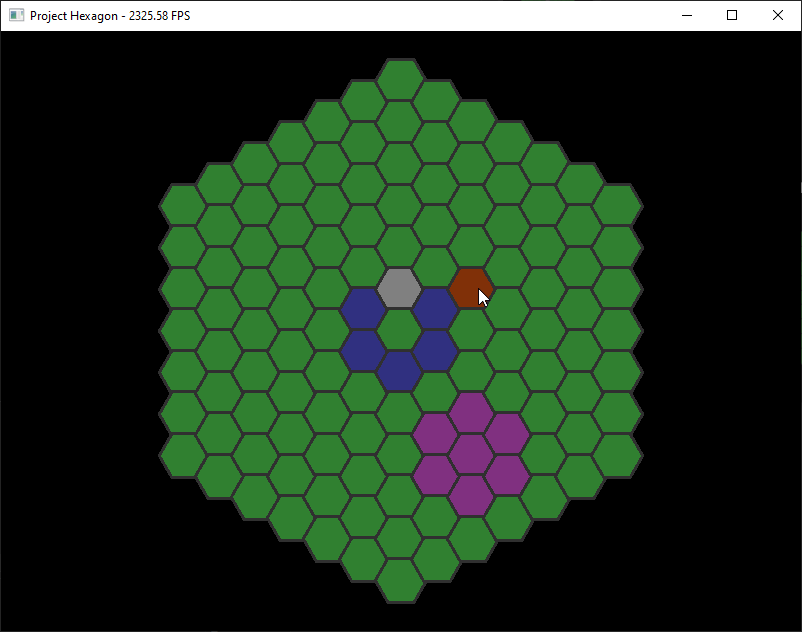
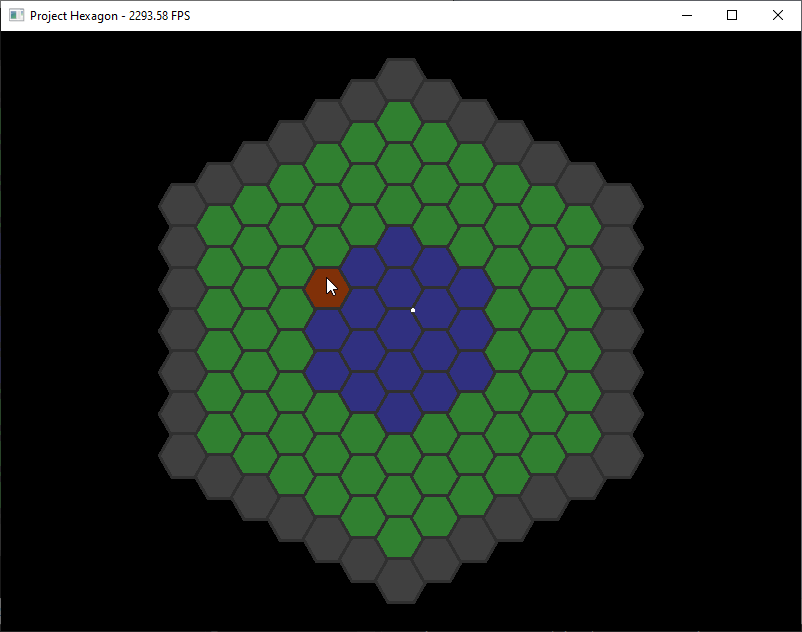
added function to generate ring of tiles

Changed region(s): [[0.187, 0.0902, 0.8105, 0.962], [0.9975, 0.0, 1.0, 0.9921], [0.1559, 0.0, 0.187, 0.0301]]

diff --git a/Project-Hexagon/main.cpp b/Project-Hexagon/main.cpp
@@ -63,8 +63,8 @@ class Tile {
 		
 		for (int i = 0; i < 6; i++) {
 			float deg = i * 60 + 30;
-			float rad = -deg * M_PI / 180.0f;
-			float xx = position.x - tile_radius * std::sin(rad);
+			float rad = deg * M_PI / 180.0f;
+			float xx = position.x + tile_radius * std::sin(rad);
 			float yy = position.y - tile_radius * std::cos(rad);
 
 			hexagon.setPoint(i, sf::Vector2f(xx, yy));
@@ -142,6 +142,37 @@ class Map {
 		return set;
 	}
 
+	std::unordered_set<Tile*> getTilesRing(int q, int r, int s, int ring_size) {
+		std::unordered_set<Tile*> set;
+
+		if (ring_size == 0) {
+			Tile* center = getTile(q, r, s);
+			if (center != nullptr)
+				set.insert(center);
+			return set;
+		}
+
+		int qq = q + hex_neighbours[4].x * ring_size;
+		int rr = r + hex_neighbours[4].y * ring_size;
+		int ss = s + hex_neighbours[4].z * ring_size;
+
+		Tile* tt = getTile(qq, rr, ss);
+
+		for (int i = 0; i < 6; i++) {
+			for (int j = 0; j < ring_size; j++) {
+				if (tt != nullptr)
+					set.insert(tt);
+
+				if (tt != nullptr)
+					tt = tt->neighbours[i];
+				else
+					break; // przerwij jeśli nie ma sąsiada
+			}
+		}
+
+		return set;
+	}
+
 	sf::Vector2f getSize() {
 		if (tiles.empty())
 			return sf::Vector2f(0.f, 0.f);
@@ -197,13 +228,12 @@ class Map {
 			}
 		}
 
-		Tile* tile = getTile(0, 0);
-		//std::cout<<tile->coords.x<<","<<tile->coords.y<<","<<tile->coords.z<<"\n";
-		for (int dir = 0; dir < 6; dir++) {
-			Tile* ngbr = tile->neighbours[dir];
-			if (ngbr != nullptr)
-				ngbr->color = sf::Color(48, 48, 128);
-		}
+		for (auto& t : getTiles(0, 0, 0, 2))
+			t->color = sf::Color(48, 48, 128);
+
+		for (auto& t : getTilesRing(0, 0, 0, 6))
+			t->color = sf::Color(64, 64, 64);
+
 	}
 
 	void cursorHover() {
@@ -236,7 +266,6 @@ int main() {
 
 		mapa->cursorHover();
 
-
 		float FPS = 1.0f / FPSClock.restart().asSeconds();
 		if (FPSClockUpdate.getElapsedTime().asSeconds() > 0.5f) {
 
@@ -246,22 +275,26 @@ int main() {
 			FPSClockUpdate.restart();
 		}
 
+		static int i = 0;
+
 		// Handle screen resizes
 		sf::Event event;
 		while (window->pollEvent(event)) {
 			if (event.type == sf::Event::Closed)
 				window->close();
 
-			
+			if (event.type == sf::Event::KeyPressed && sf::Keyboard::isKeyPressed(sf::Keyboard::Space)) {
+				i += 1;
+				i %= 6;
+			}
+				
 		}
 
 		// update
-		
-		mapa->getTile(0, 0)->neighbours[0]->color = sf::Color(128, 128, 128);
-
-		for (auto& t : mapa->getTiles(2, 2, -4, 1)) {
-			t->color = sf::Color(128, 48, 128);
-		}
+		sf::CircleShape c(2);
+		c.setOrigin(2, 2);
+		c.setFillColor(sf::Color::White);
+		c.setPosition(mapa->getTile(0, 0, 0)->hexagon.getPoint(i));
 
 		// render
 		sf::View v;
@@ -270,6 +303,7 @@ int main() {
 		window->setView(v);
 		window->clear();
 		mapa->draw();
+		window->draw(c);
 		window->display();
 	}
 	return 0;
